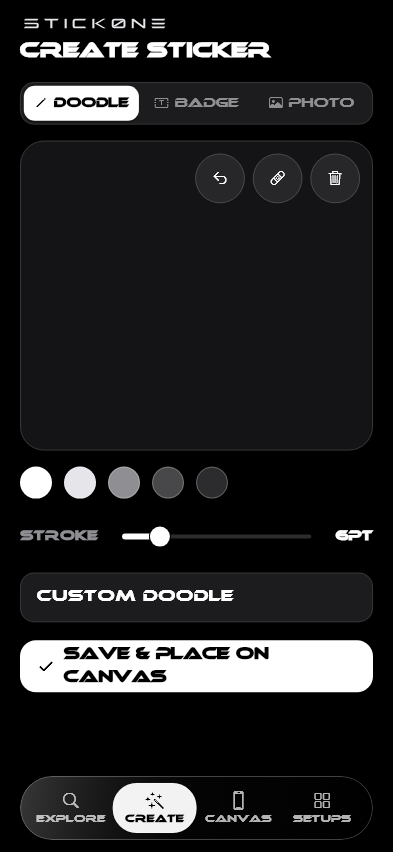
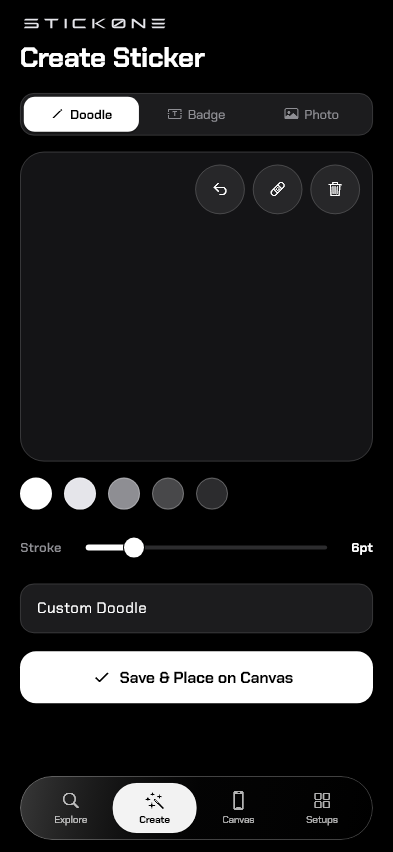
docs: finalize UI screenshots with crisp Chakra Petch typography and button layout alignment

diff --git a/lib/screens/sticker_placement_screen.dart b/lib/screens/sticker_placement_screen.dart
@@ -1016,7 +1016,7 @@ class _StickerPlacementScreenState extends State<StickerPlacementScreen> {
                       ),
                     ),
                     Container(
-                      width: 40,
+                      width: 48,
                       alignment: Alignment.centerRight,
                       child: Text(
                         '${(activePlacement.opacity * 100).round()}%',
@@ -1043,7 +1043,7 @@ class _StickerPlacementScreenState extends State<StickerPlacementScreen> {
                       GestureDetector(
                         onTap: () => _deleteSinglePlacement(activePlacement.id),
                         child: Container(
-                          padding: const EdgeInsets.symmetric(horizontal: 10, vertical: 8),
+                          padding: const EdgeInsets.symmetric(horizontal: 8, vertical: 7),
                           decoration: BoxDecoration(
                             color: const Color(0x33FF453A),
                             borderRadius: BorderRadius.circular(14),
@@ -1067,13 +1067,13 @@ class _StickerPlacementScreenState extends State<StickerPlacementScreen> {
                         ),
                       ),
 
-                      const SizedBox(width: 6),
+                      const SizedBox(width: 5),
 
                       // Quick Add button to place N stickers
                       GestureDetector(
                         onTap: () => _showAddStickerSheet(context),
                         child: Container(
-                          padding: const EdgeInsets.symmetric(horizontal: 10, vertical: 8),
+                          padding: const EdgeInsets.symmetric(horizontal: 8, vertical: 7),
                           decoration: BoxDecoration(
                             color: const Color(0x29FFFFFF), // Liquid frosted pill
                             borderRadius: BorderRadius.circular(14),
@@ -1097,14 +1097,14 @@ class _StickerPlacementScreenState extends State<StickerPlacementScreen> {
                         ),
                       ),
 
-                      const SizedBox(width: 6),
+                      const SizedBox(width: 5),
 
                       // If stuck on screen: Show "Remove Screen" + "Update Screen" (Feature 4 Edit/Delete after sticked)
                       if (isOverlayActive) ...[
                         GestureDetector(
                           onTap: _removeFromScreenDirectly,
                           child: Container(
-                            padding: const EdgeInsets.symmetric(horizontal: 10, vertical: 8),
+                            padding: const EdgeInsets.symmetric(horizontal: 8, vertical: 7),
                             decoration: BoxDecoration(
                               color: const Color(0x29FFFFFF), // Liquid frosted pill
                               borderRadius: BorderRadius.circular(14),
@@ -1116,7 +1116,7 @@ class _StickerPlacementScreenState extends State<StickerPlacementScreen> {
                                 Icon(CupertinoIcons.clear_circled, color: Color(0xFFE5E5EA), size: 13),
                                 SizedBox(width: 4),
                                 Text(
-                                  'Remove Screen',
+                                  'Remove',
                                   style: TextStyle(
                                     color: Color(0xFFE5E5EA),
                                     fontSize: 12,
@@ -1127,7 +1127,7 @@ class _StickerPlacementScreenState extends State<StickerPlacementScreen> {
                             ),
                           ),
                         ),
-                        const SizedBox(width: 6),
+                        const SizedBox(width: 5),
                         ElevatedButton.icon(
                           onPressed: _isExporting ? null : _updateScreenDirectly,
                           icon: const Icon(CupertinoIcons.arrow_2_circlepath, color: Colors.black, size: 13),
@@ -1143,7 +1143,7 @@ class _StickerPlacementScreenState extends State<StickerPlacementScreen> {
                             backgroundColor: const Color(0xF2FFFFFF),
                             foregroundColor: Colors.black,
                             elevation: 0,
-                            padding: const EdgeInsets.symmetric(horizontal: 12, vertical: 8),
+                            padding: const EdgeInsets.symmetric(horizontal: 10, vertical: 7),
                             shape: RoundedRectangleBorder(borderRadius: BorderRadius.circular(14)),
                           ),
                         ),
@@ -1164,7 +1164,7 @@ class _StickerPlacementScreenState extends State<StickerPlacementScreen> {
                             backgroundColor: const Color(0xF2FFFFFF),
                             foregroundColor: Colors.black,
                             elevation: 0,
-                            padding: const EdgeInsets.symmetric(horizontal: 14, vertical: 8),
+                            padding: const EdgeInsets.symmetric(horizontal: 10, vertical: 7),
                             shape: RoundedRectangleBorder(borderRadius: BorderRadius.circular(14)),
                           ),
                         ),

diff --git a/lib/screens/preview_display_modal.dart b/lib/screens/preview_display_modal.dart
@@ -121,18 +121,20 @@ class _PreviewDisplayModalState extends State<PreviewDisplayModal> {
     final canvasProvider = context.watch<CanvasProvider>();
     final isOverlayActive = canvasProvider.isOverlayActive;
 
-    return ClipRRect(
-      borderRadius: const BorderRadius.vertical(top: Radius.circular(32)),
-      child: BackdropFilter(
-        filter: ImageFilter.blur(sigmaX: 30, sigmaY: 30),
-        child: Container(
-          height: MediaQuery.of(context).size.height * 0.90,
-          decoration: BoxDecoration(
-            color: const Color(0xF0141416),
-            borderRadius: const BorderRadius.vertical(top: Radius.circular(32)),
-            border: Border.all(color: const Color(0x26FFFFFF), width: 0.8),
-          ),
-          child: Column(
+    return Material(
+      type: MaterialType.transparency,
+      child: ClipRRect(
+        borderRadius: const BorderRadius.vertical(top: Radius.circular(32)),
+        child: BackdropFilter(
+          filter: ImageFilter.blur(sigmaX: 30, sigmaY: 30),
+          child: Container(
+            height: MediaQuery.of(context).size.height * 0.90,
+            decoration: BoxDecoration(
+              color: const Color(0xF0141416),
+              borderRadius: const BorderRadius.vertical(top: Radius.circular(32)),
+              border: Border.all(color: const Color(0x26FFFFFF), width: 0.8),
+            ),
+            child: Column(
             children: [
               // iOS Grabber bar
               Container(
@@ -160,9 +162,9 @@ class _PreviewDisplayModalState extends State<PreviewDisplayModal> {
                           'Stick to Screen',
                           style: TextStyle(
                             color: Colors.white,
-                            fontSize: 18,
+                            fontSize: 22,
                             fontWeight: FontWeight.w700,
-                            letterSpacing: 0.5,
+                            letterSpacing: -0.6,
                           ),
                         ),
                         SizedBox(height: 2),
@@ -473,8 +475,9 @@ class _PreviewDisplayModalState extends State<PreviewDisplayModal> {
           ),
         ),
       ),
-    );
-  }
+    ),
+  );
+}
 
   Widget _buildFeatureRow({
     required IconData icon,

diff --git a/test/generate_screenshots_test.dart b/test/generate_screenshots_test.dart
@@ -34,14 +34,6 @@ Future<void> _loadTestFonts() async {
       await materialLoader.load();
     }
 
-    // Ethnocentric font - exact match for the official Stick0ne SVG logo letterforms
-    final ethnocentricFile = File('assets/fonts/Ethnocentric.ttf');
-    if (ethnocentricFile.existsSync()) {
-      final ethnoLoader = FontLoader('Ethnocentric');
-      ethnoLoader.addFont(Future.value(ByteData.view(ethnocentricFile.readAsBytesSync().buffer)));
-      await ethnoLoader.load();
-    }
-
     // Chakra Petch Regular, Bold, SemiBold for cyber-geometric logo-matched typography
     final chakraRegular = File('assets/fonts/ChakraPetch-Regular.ttf');
     if (chakraRegular.existsSync()) {
@@ -99,7 +91,7 @@ void main() {
           theme: ThemeData(
             useMaterial3: true,
             brightness: Brightness.dark,
-            fontFamily: 'Ethnocentric',
+            fontFamily: 'ChakraPetch',
             scaffoldBackgroundColor: const Color(0xFF000000),
             colorScheme: const ColorScheme.dark(
               primary: Colors.white,
@@ -161,9 +153,11 @@ void main() {
     await saveScreenshot('2_canvas_customizer');
 
     // 3. SCREENSHOT 3: Setup Canvas with iOS 18 Lock Screen Overlay
-    canvasProvider.setPreviewOverlay(PreviewOverlayMode.lockScreen);
+    // 3. SCREENSHOT 3: Active "Stuck on Screen" State
+    canvasProvider.setOverlayActiveForTest(true);
     await tester.pumpAndSettle();
     await saveScreenshot('3_lockscreen_overlay');
+    canvasProvider.setOverlayActiveForTest(false);
 
     // 4. SCREENSHOT 4: Studio / Create Sticker Tab
     await tester.tap(find.text('Create'));
@@ -181,9 +175,15 @@ void main() {
     final sampleBytes = File('screenshots/2_canvas_customizer.png').readAsBytesSync();
     await tester.pumpWidget(
       buildTestApp(
-        PreviewDisplayModal(
-          imageBytes: sampleBytes,
-          transparentBytes: sampleBytes,
+        Scaffold(
+          backgroundColor: Colors.black,
+          body: Align(
+            alignment: Alignment.bottomCenter,
+            child: PreviewDisplayModal(
+              imageBytes: sampleBytes,
+              transparentBytes: sampleBytes,
+            ),
+          ),
         ),
       ),
     );

diff --git a/lib/screens/sticker_search_screen.dart b/lib/screens/sticker_search_screen.dart
@@ -78,9 +78,9 @@ class _StickerSearchScreenState extends State<StickerSearchScreen> {
                   'Explore Stickers',
                   style: TextStyle(
                     color: Colors.white,
-                    fontSize: 20,
-                    fontWeight: FontWeight.w700,
-                    letterSpacing: 0.5,
+                    fontSize: 28,
+                    fontWeight: FontWeight.w800,
+                    letterSpacing: -0.5,
                   ),
                 ),
               ],

diff --git a/lib/screens/sticker_creator_screen.dart b/lib/screens/sticker_creator_screen.dart
@@ -318,9 +318,9 @@ class _StickerCreatorScreenState extends State<StickerCreatorScreen> {
             'Create Sticker',
             style: TextStyle(
               color: Colors.white,
-              fontSize: 20,
-              fontWeight: FontWeight.w700,
-              letterSpacing: 0.5,
+              fontSize: 28,
+              fontWeight: FontWeight.w800,
+              letterSpacing: -0.5,
             ),
           ),
         ],

diff --git a/lib/main.dart b/lib/main.dart
@@ -45,7 +45,7 @@ class Stick0neApp extends StatelessWidget {
         theme: ThemeData(
           useMaterial3: true,
           brightness: Brightness.dark,
-          fontFamily: 'Ethnocentric',
+          fontFamily: 'ChakraPetch',
           scaffoldBackgroundColor: const Color(0xFF000000), // OLED Pure Black
           canvasColor: const Color(0xFF000000),
           cardColor: const Color(0xFF1C1C1E), // iOS Grouped Inset Card

diff --git a/lib/screens/my_designs_screen.dart b/lib/screens/my_designs_screen.dart
@@ -55,9 +55,9 @@ class MyDesignsScreen extends StatelessWidget {
             'My Setups',
             style: TextStyle(
               color: Colors.white,
-              fontSize: 20,
-              fontWeight: FontWeight.w700,
-              letterSpacing: 0.5,
+              fontSize: 28,
+              fontWeight: FontWeight.w800,
+              letterSpacing: -0.5,
             ),
           ),
         ],

diff --git a/lib/screens/main_navigation_screen.dart b/lib/screens/main_navigation_screen.dart
@@ -150,7 +150,7 @@ class _MainNavigationScreenState extends State<MainNavigationScreen> {
                   fontSize: 10,
                   fontWeight: isSelected ? FontWeight.w700 : FontWeight.w500,
                   color: isSelected ? Colors.black : const Color(0xB3FFFFFF),
-                  letterSpacing: 0.2,
+                  letterSpacing: -0.2,
                 ),
               ),
             ],

diff --git a/lib/providers/canvas_provider.dart b/lib/providers/canvas_provider.dart
@@ -61,6 +61,12 @@ class CanvasProvider extends ChangeNotifier {
   bool get isLoadingDesigns => _isLoadingDesigns;
   bool get isOverlayActive => _isOverlayActive;
 
+  @visibleForTesting
+  void setOverlayActiveForTest(bool active) {
+    _isOverlayActive = active;
+    notifyListeners();
+  }
+
   StickerPlacement? get selectedPlacement {
     if (_selectedPlacementId == null) return null;
     try {
